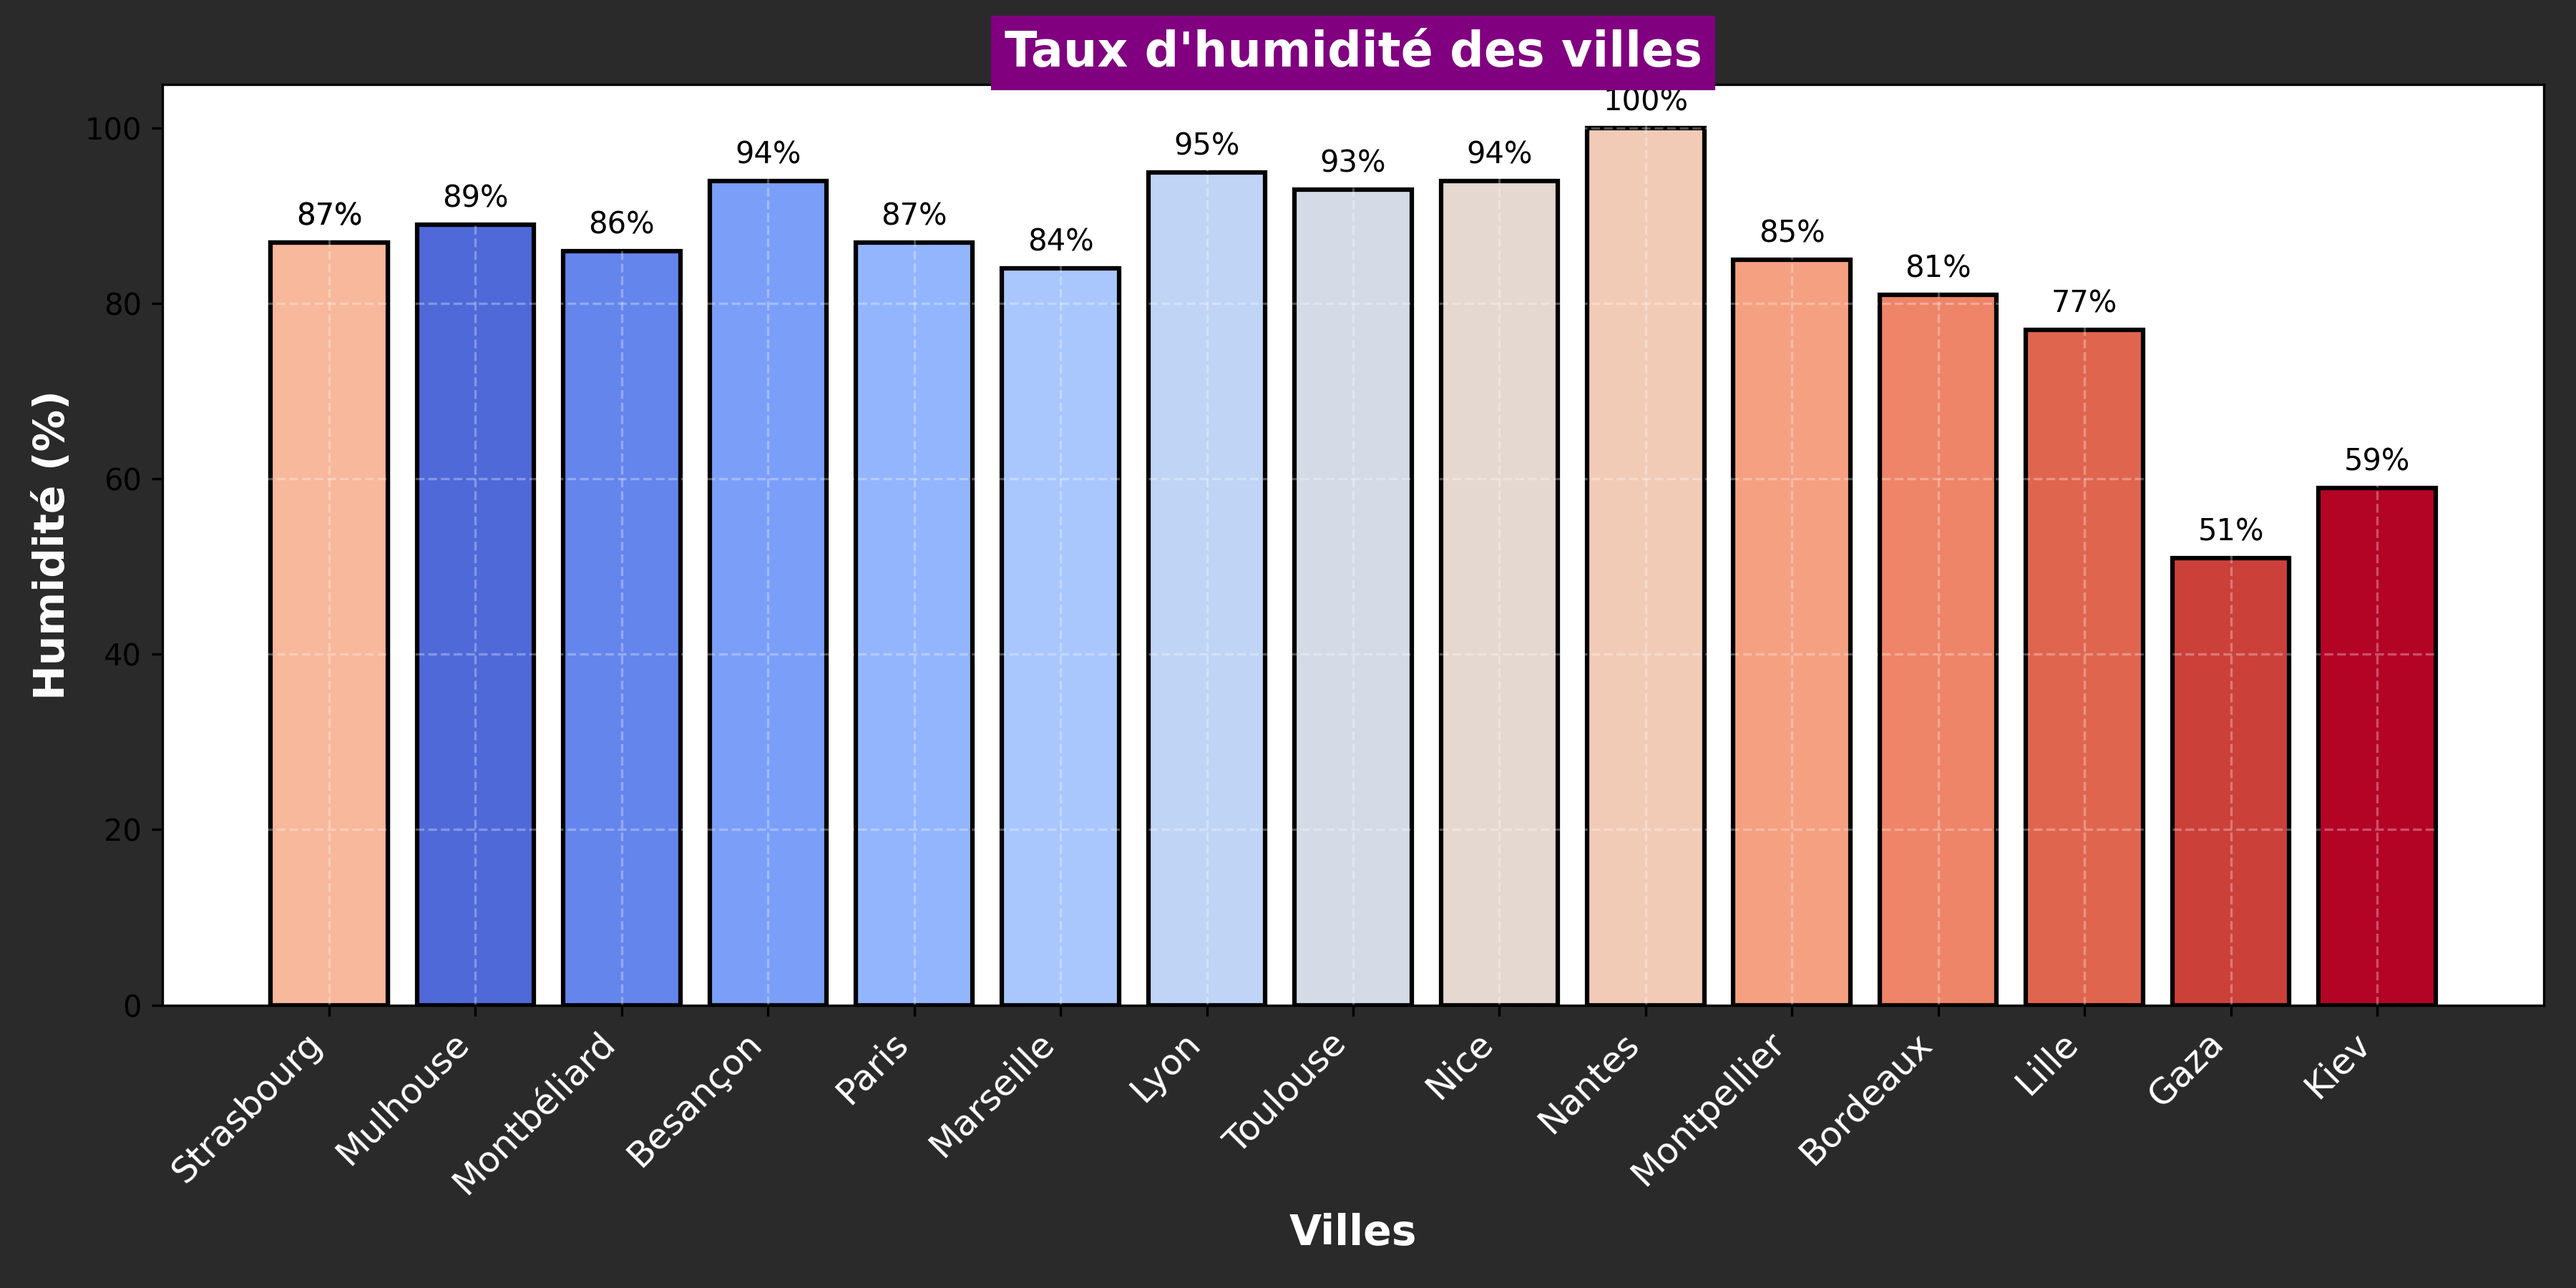
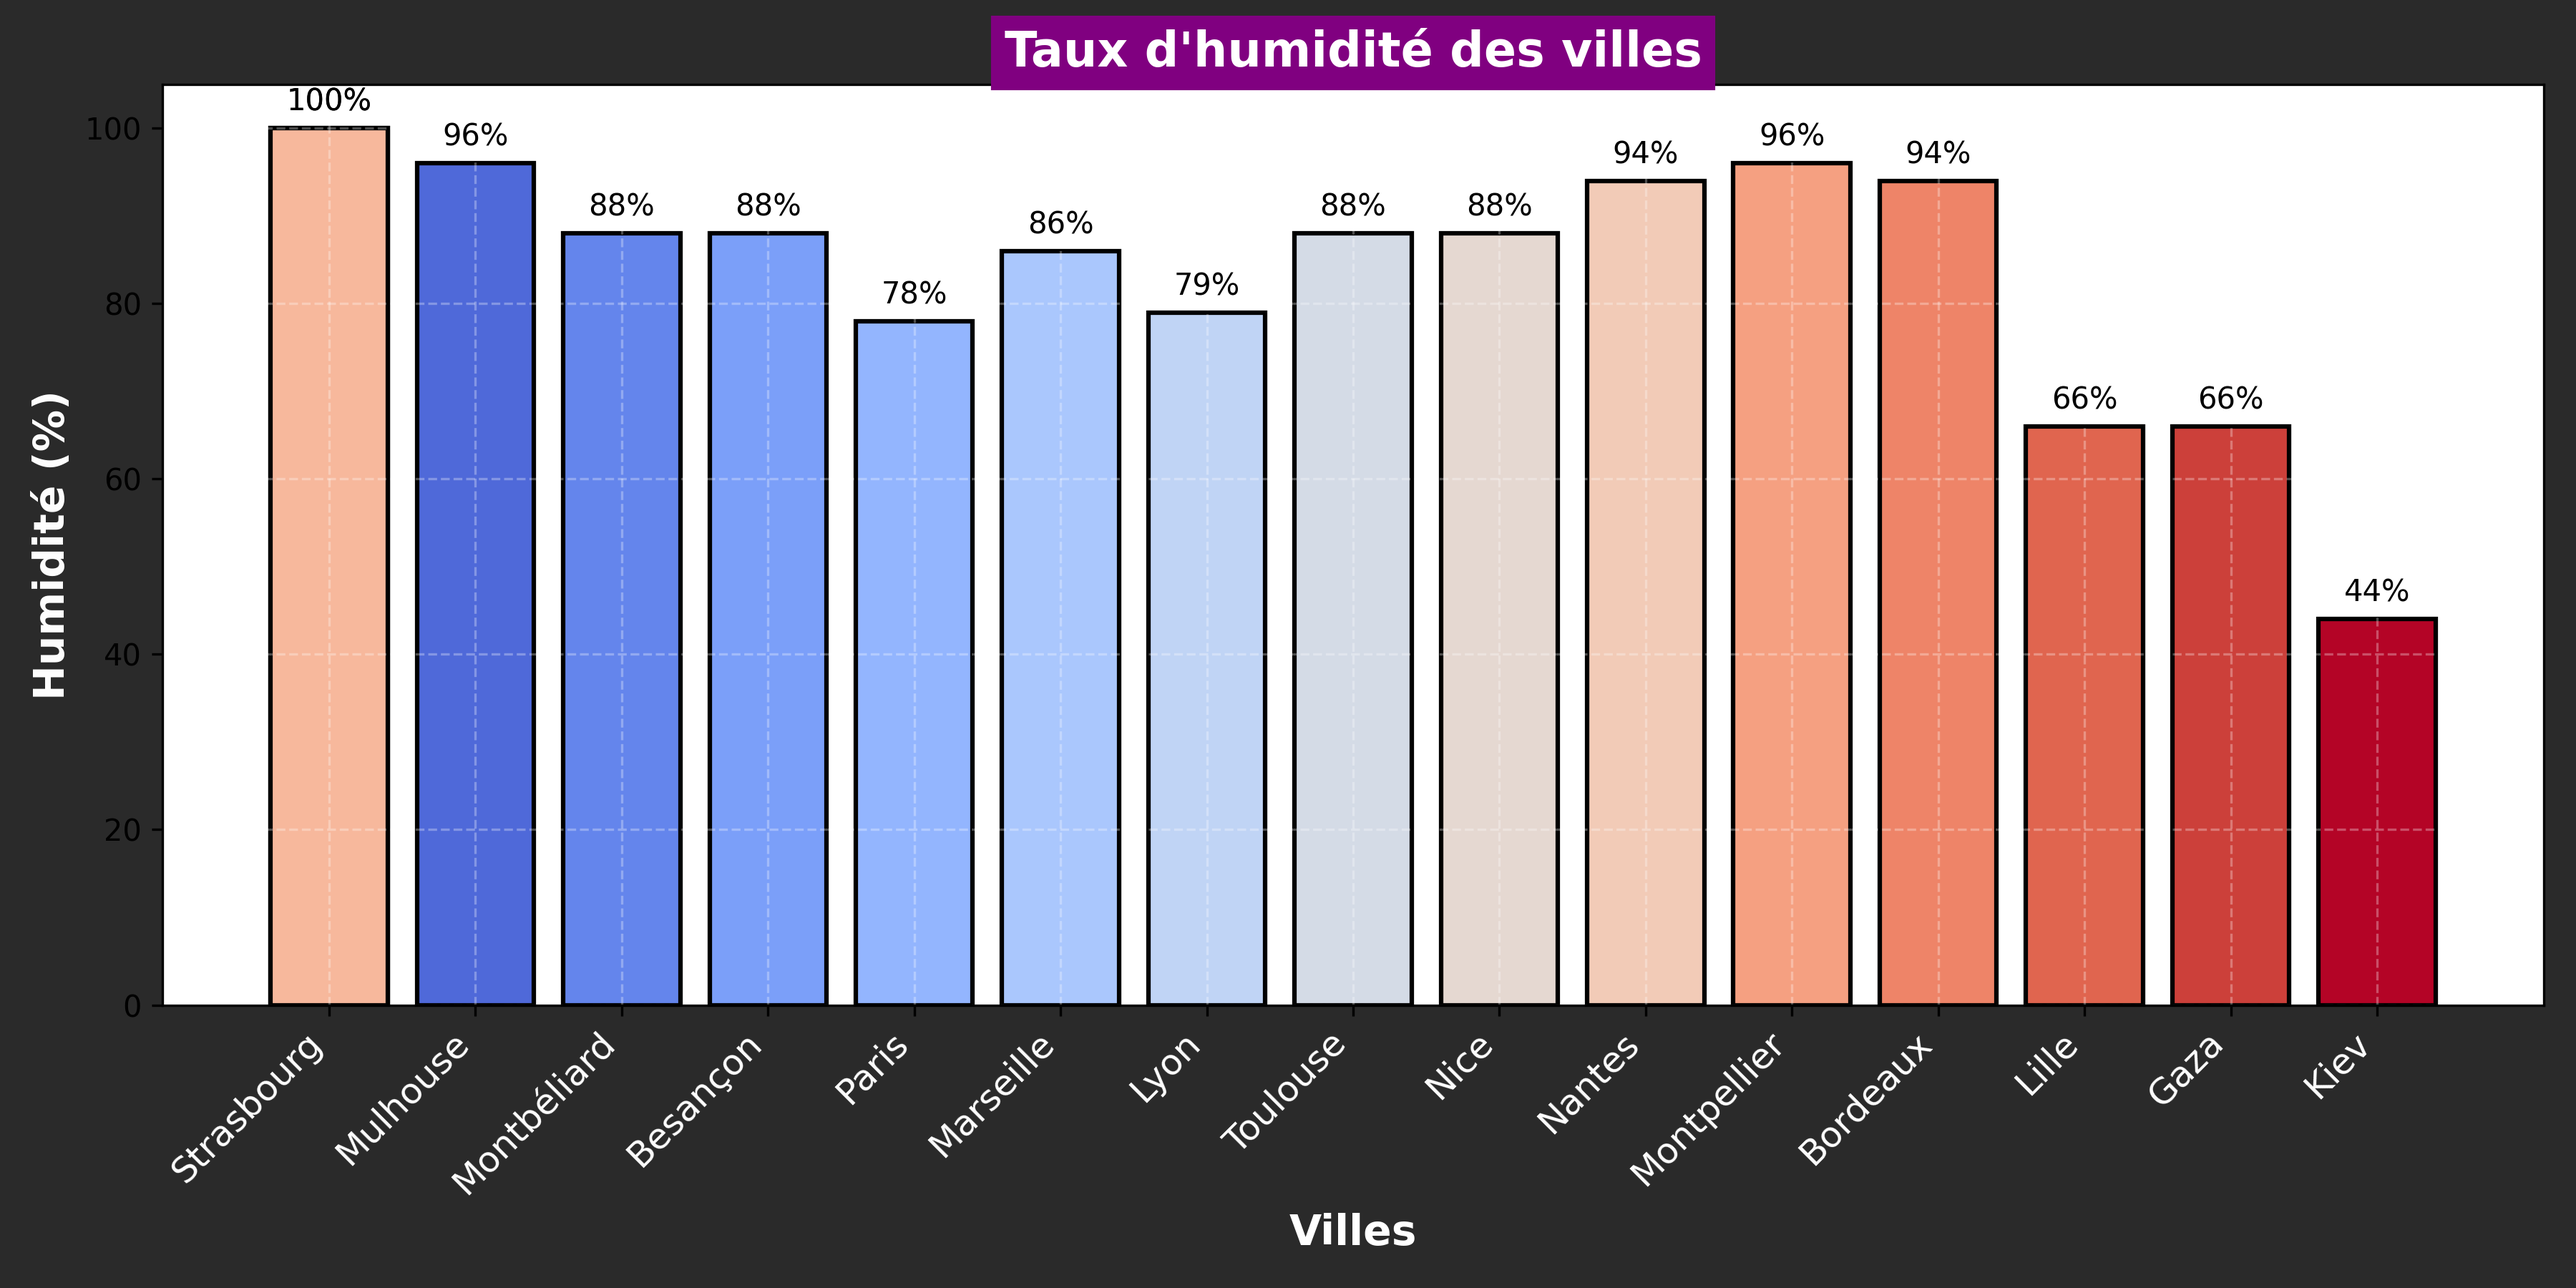
Mise à jour de la météo et ajout du graphique d'humidité

Changed region(s): [[0.0933, 0.0622, 0.7778, 0.2489], [0.7778, 0.2489, 0.9644, 0.4978]]

diff --git a/README.md b/README.md
@@ -24,103 +24,103 @@ Ce repo contient plusieurs workflows GitHub Actions :
 ## Météo actuelle :
 ## Météo des grandes villes + Gaza et Kiev 🌍
 
-🕒 Mise à jour : 18/04/2025 08:16:53
+🕒 Mise à jour : 19/04/2025 08:15:41
 
-### 🌍 Strasbourg 🌥
-**Conditions :** couvert
-**Température :** 7.01°C
-**Humidité :** 87%
-**Vent :** 2.57 m/s
+### 🌍 Strasbourg 🌫
+**Conditions :** brouillard
+**Température :** 4.01°C
+**Humidité :** 100%
+**Vent :** 0.51 m/s
 
-### 🌍 Mulhouse 🌥
-**Conditions :** couvert
-**Température :** 6.46°C
-**Humidité :** 89%
-**Vent :** 3.6 m/s
+### 🌍 Mulhouse ☀
+**Conditions :** ciel dégagé
+**Température :** 3.44°C
+**Humidité :** 96%
+**Vent :** 0.51 m/s
 
 ### 🌍 Montbéliard 🌥
-**Conditions :** couvert
-**Température :** 6.66°C
-**Humidité :** 86%
-**Vent :** 1.16 m/s
+**Conditions :** nuageux
+**Température :** 5.54°C
+**Humidité :** 88%
+**Vent :** 3.16 m/s
 
 ### 🌍 Besançon 🌥
-**Conditions :** couvert
-**Température :** 5.18°C
-**Humidité :** 94%
-**Vent :** 2.02 m/s
+**Conditions :** nuageux
+**Température :** 5.39°C
+**Humidité :** 88%
+**Vent :** 1.35 m/s
 
 ### 🌍 Paris ☀
 **Conditions :** ciel dégagé
-**Température :** 7.03°C
-**Humidité :** 87%
-**Vent :** 4.12 m/s
+**Température :** 9.13°C
+**Humidité :** 78%
+**Vent :** 4.63 m/s
 
-### 🌍 Marseille ☀
-**Conditions :** ciel dégagé
-**Température :** 6.6°C
-**Humidité :** 84%
-**Vent :** 0.89 m/s
+### 🌍 Marseille 🌥
+**Conditions :** couvert
+**Température :** 11.84°C
+**Humidité :** 86%
+**Vent :** 2.24 m/s
 
 ### 🌍 Lyon 🌥
-**Conditions :** peu nuageux
-**Température :** 1.79°C
-**Humidité :** 95%
-**Vent :** 0.45 m/s
+**Conditions :** nuageux
+**Température :** 7.54°C
+**Humidité :** 79%
+**Vent :** 1.12 m/s
 
-### 🌍 Toulouse ☀
-**Conditions :** ciel dégagé
-**Température :** 6.99°C
-**Humidité :** 93%
-**Vent :** 2.06 m/s
+### 🌍 Toulouse 🌧
+**Conditions :** pluie modérée
+**Température :** 12.99°C
+**Humidité :** 88%
+**Vent :** 5.66 m/s
 
 ### 🌍 Nice 🌥
 **Conditions :** couvert
 **Température :** 6.39°C
-**Humidité :** 94%
-**Vent :** 0.13 m/s
+**Humidité :** 88%
+**Vent :** 1.16 m/s
 
 ### 🌍 Nantes 🌥
-**Conditions :** nuageux
-**Température :** 7.96°C
-**Humidité :** 100%
+**Conditions :** couvert
+**Température :** 11.96°C
+**Humidité :** 94%
 **Vent :** 3.6 m/s
 
-### 🌍 Strasbourg 🌥
+### 🌍 Strasbourg 🌫
+**Conditions :** brouillard
+**Température :** 4.01°C
+**Humidité :** 100%
+**Vent :** 0.51 m/s
+
+### 🌍 Montpellier 🌥
 **Conditions :** couvert
-**Température :** 7.01°C
-**Humidité :** 87%
+**Température :** 14.16°C
+**Humidité :** 96%
+**Vent :** 11.32 m/s
+
+### 🌍 Bordeaux 🌧
+**Conditions :** pluie modérée
+**Température :** 13.15°C
+**Humidité :** 94%
 **Vent :** 2.57 m/s
 
-### 🌍 Montpellier ☀
+### 🌍 Lille ☀
 **Conditions :** ciel dégagé
-**Température :** 7.5°C
-**Humidité :** 85%
-**Vent :** 1.54 m/s
-
-### 🌍 Bordeaux ☀
-**Conditions :** ciel dégagé
-**Température :** 8.15°C
-**Humidité :** 81%
-**Vent :** 4.12 m/s
-
-### 🌍 Lille 🌫
-**Conditions :** brume
-**Température :** 5.45°C
-**Humidité :** 77%
-**Vent :** 1.03 m/s
+**Température :** 8.64°C
+**Humidité :** 66%
+**Vent :** 3.09 m/s
 
 ### 🌍 Gaza ☀
 **Conditions :** ciel dégagé
-**Température :** 22.97°C
-**Humidité :** 51%
-**Vent :** 2.15 m/s
+**Température :** 21.11°C
+**Humidité :** 66%
+**Vent :** 2.31 m/s
 
-### 🌍 Kiev ☀
-**Conditions :** ciel dégagé
-**Température :** 15.39°C
-**Humidité :** 59%
-**Vent :** 4.69 m/s
+### 🌍 Kiev 🌥
+**Conditions :** couvert
+**Température :** 18.45°C
+**Humidité :** 44%
+**Vent :** 3.08 m/s
 
 <p align='center'><img src='https://raw.githubusercontent.com/khoa083/khoa/main/Khoa_ne/img/Rainbow.gif' width='100%' style='border-radius: 5px; border: 3px solid #39FF14; box-shadow: 0 0 10px #39FF14, 0 0 20px #39FF14;' /></p>
 
